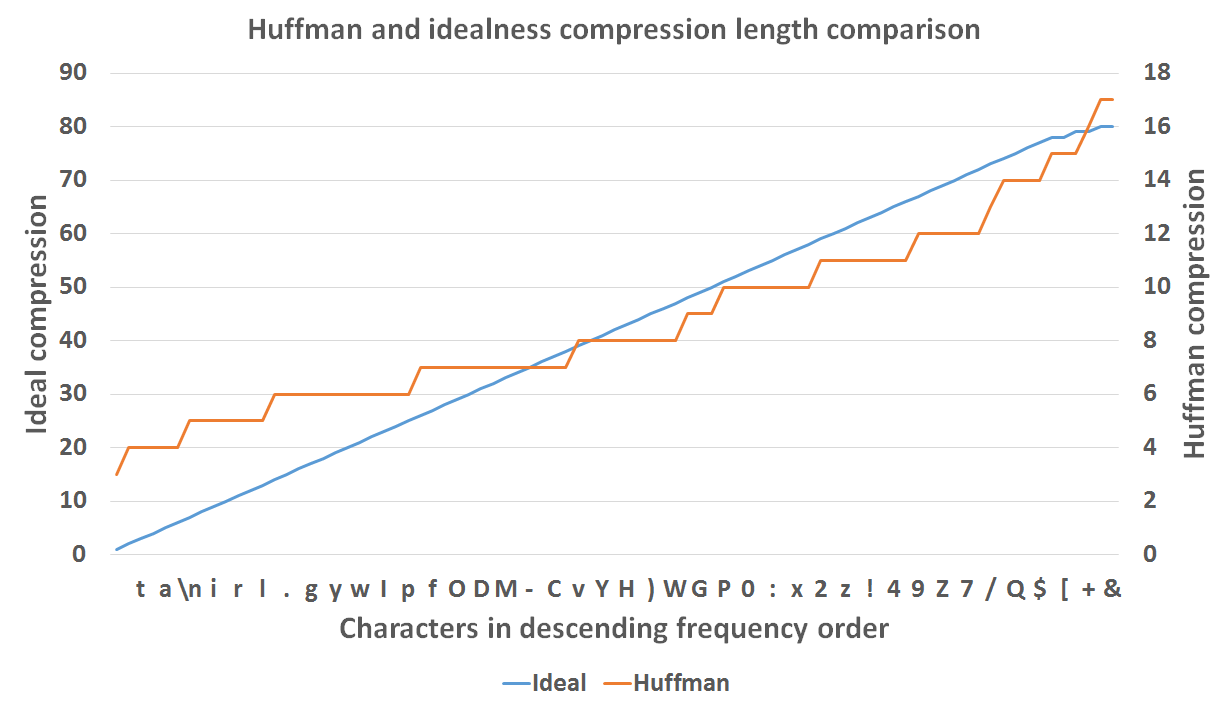
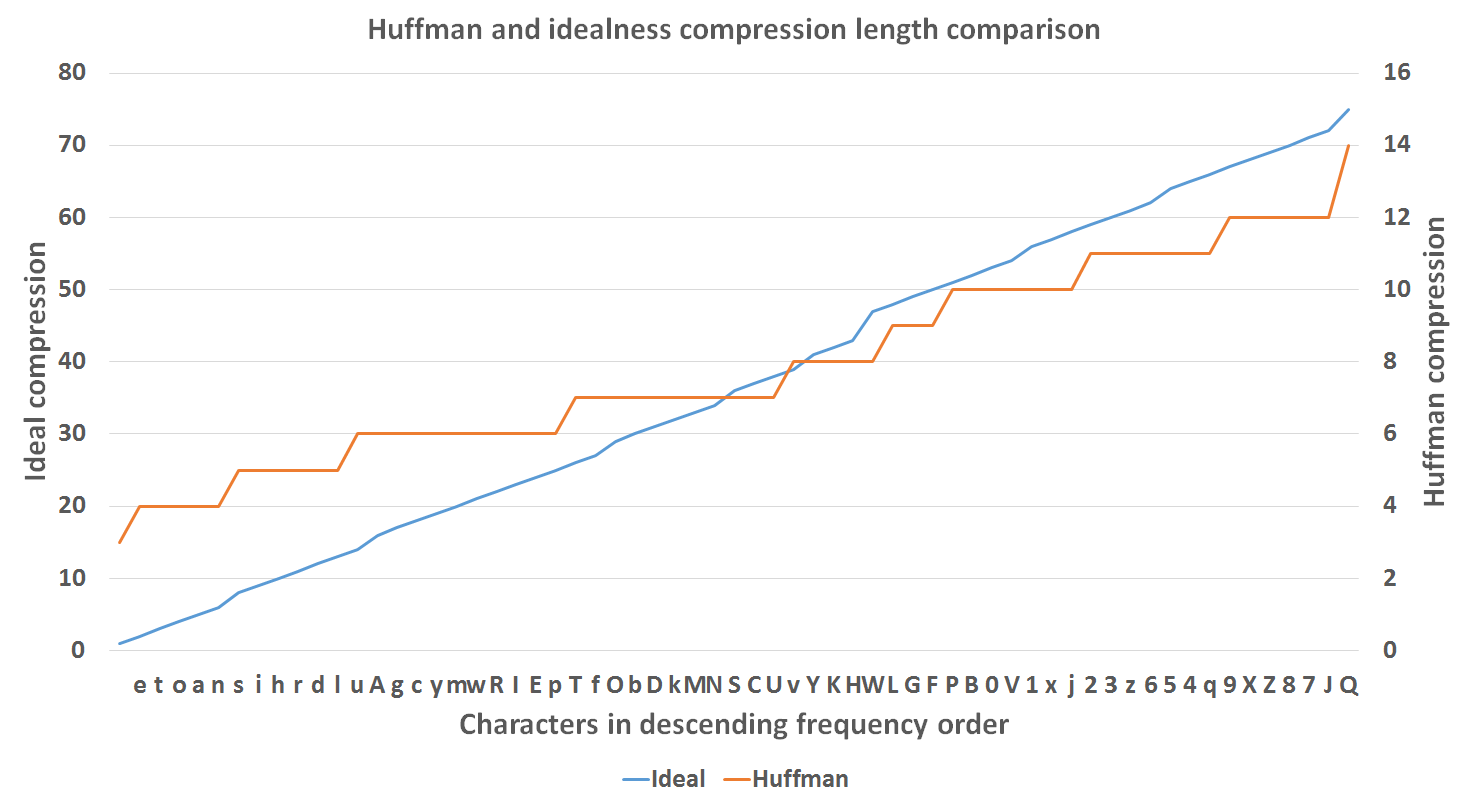
Fix idealness graph x axis, fix #273

diff --git a/etc/theory/compression_security.tex b/etc/theory/compression_security.tex
@@ -642,8 +642,8 @@ proofs.
 We support our idealness claims in an experimental manner. Our experiment
 measured the compression performance of the Huffman and an ideal function on a
 text of English literature\footnote{The screenplay of the movie "The Social
-Network".}. First, we calculated the occurences of each character (letters,
-digits and special characters) in the text. Second, we generated the Huffman
+Network".}. First, we calculated the occurences of each character (letters and
+digits) in the text. Second, we generated the Huffman
 table for this text and the table of an ideal function based on the character
 frequencies. Each character is represented by a bitstream in both tables. Figure
 \ref{fig:huffman_idealness} depicts the length of the bitstreams of characters
